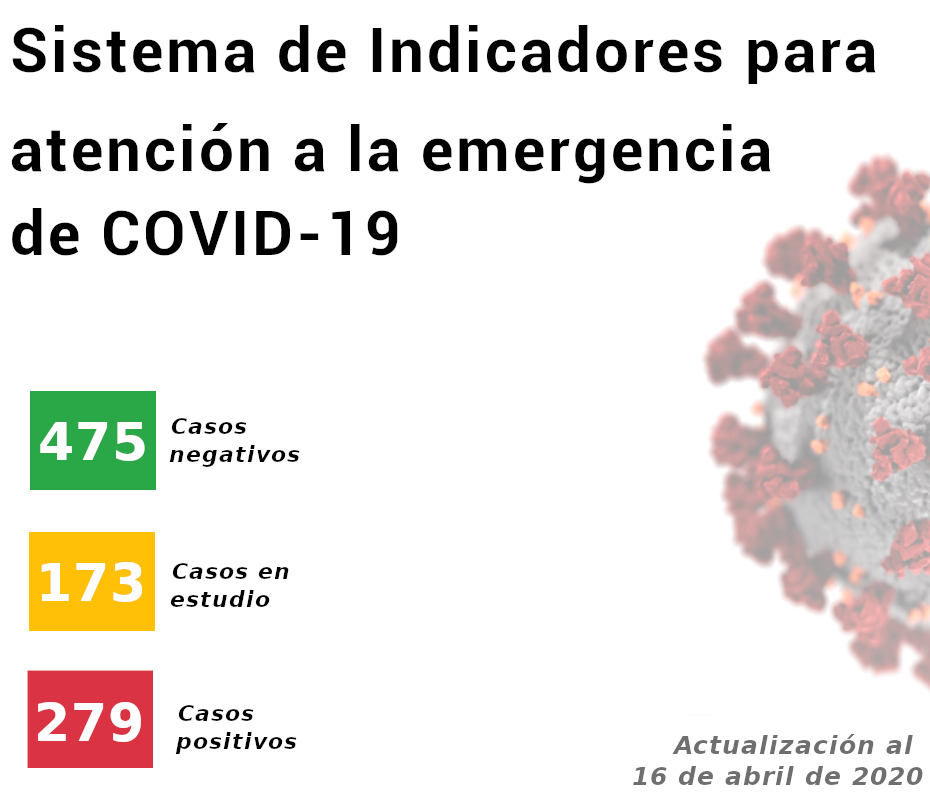
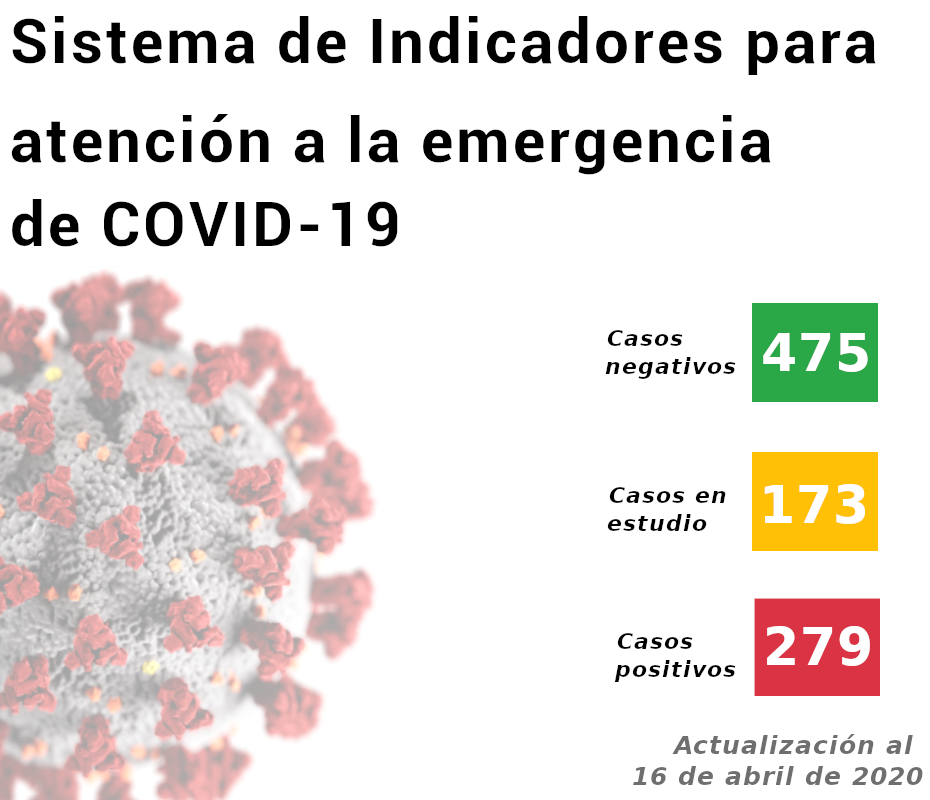
deploy34

diff --git a/index2.html b/index2.html
@@ -32,13 +32,13 @@
     </div>
     <div class="row">
 
-        <div class="col-md-6">
+        <div class="col-md-6 text_column">
             <a class="" href="https://arcg.is/1Oqzi9">
             <img alt="" src="images/banner_mini_16_04_2.png" style="figure-img; max-width:96%; align=center"></a>
     
         </div>
 
-        <div class="col-md-5 text_column">
+        <div class="col-md-6 text_column">
             <p>Generar de indicadores de medición en función a las causas de los fenómenos para que el 
                 diseño de medidas estén enfocadas en ellas y no es sus manifestaciones, centradas en el 
                 comportamiento epidemiológico y perfil sociodemográfico de los infectados, consumo de 
